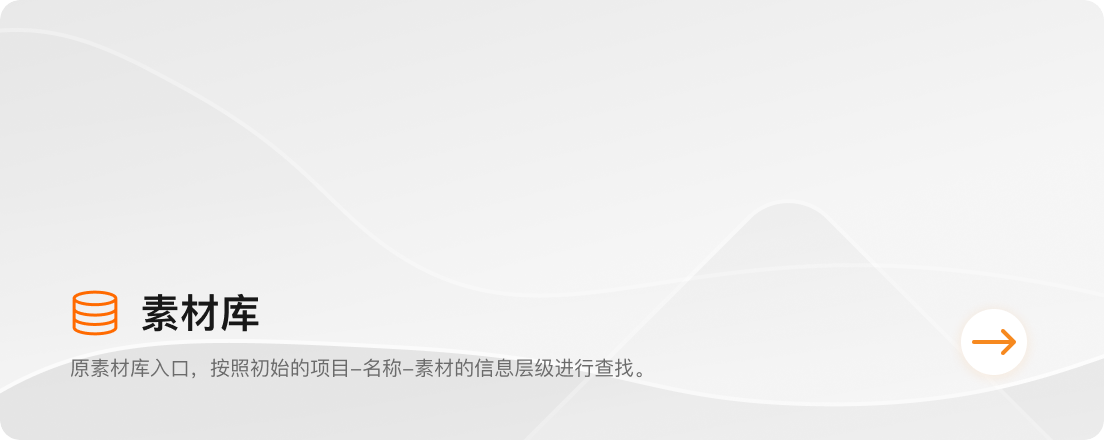
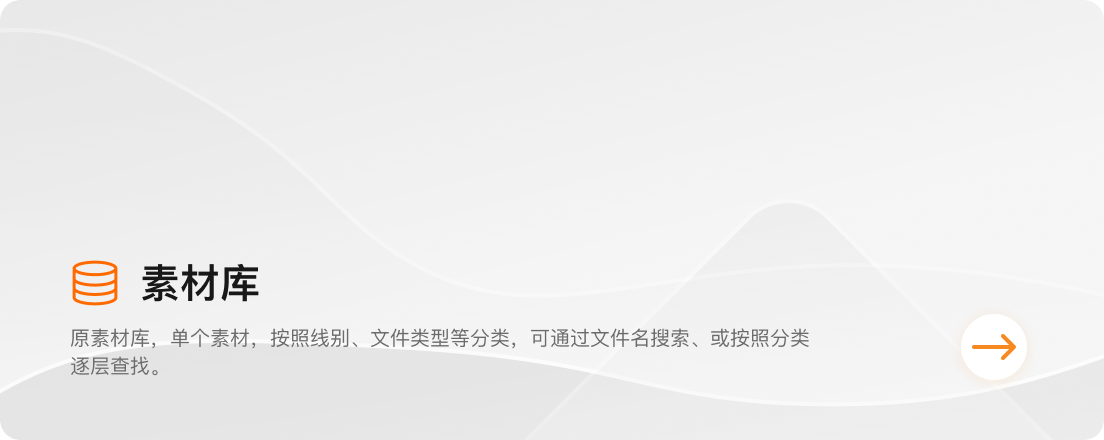
feat:优化前端样式

Changed region(s): [[0.0616, 0.5909, 0.7391, 0.8568], [0.8623, 0.7386, 0.9239, 0.8273]]

diff --git a/websrc/src/views/home/index.vue b/websrc/src/views/home/index.vue
@@ -4,24 +4,23 @@
             <el-col :span="24" class="header">
                 <el-col :span="9">
                     <div class="main_content">
-                        <img :src="joyeaLogo" @click="jumpToBuild('')"
-                             style="height: 30px;vertical-align: middle;"/>
-                        <span class="logo" style="font-size: 20px;margin-left: 10px;vertical-align:bottom"><b>仅一素材库</b></span>
+                        <img class="logo" :src="joyeaLogo" @click="jumpToBuild('')"/>
+                        <span class="logo_text"><b>仅一素材库</b></span>
                     </div>
                 </el-col>
 
                 <el-col :span="15" class="userinfo">
-                    <el-button size="mini"  @click="jumpToBuild('')" round
+                    <el-button size="mini" @click="jumpToBuild('')" round
                                icon="iconfont el-icon-icon_home_20_20px" class="interval"
                                :class="{'is-active':currentPath.startsWith('/build')}"> 首页
                     </el-button>
-                    <el-button size="mini"  @click="jumpToBuild('SELF')" round
-                               v-if="currentPath.startsWith('/build')"
+                    <el-button size="mini" @click="jumpToBuild('SELF')" round
+                               v-if="currentPath.startsWith('/build') && directoryType.trim() !== ''"
                                icon="iconfont el-icon-icon_xifenshichang_20_20px" class="interval"
                                :class="{'is-active':currentPath.startsWith('/build')}"> 细分市场
                     </el-button>
-                    <el-button size="mini"  @click="jumpToBuild('LENOVO')" round
-                               v-if="currentPath.startsWith('/build')"
+                    <el-button size="mini" @click="jumpToBuild('LENOVO')" round
+                               v-if="currentPath.startsWith('/build') && directoryType.trim() !== ''"
                                icon="iconfont el-icon-icon_sucaiku_20_20px" class="interval"
                                :class="{'is-active':currentPath.startsWith('/build')}"> 素材库
                     </el-button>
@@ -29,7 +28,8 @@
                                :class="{'is-active':currentPath.startsWith('/manage/list')}"
                                style="">我的清单
                     </el-button>
-                    <el-button size="mini" icon="iconfont el-icon-icon_sucaishangchuan_20_20px" @click="jumpToUpload" round
+                    <el-button size="mini" icon="iconfont el-icon-icon_sucaishangchuan_20_20px" @click="jumpToUpload"
+                               round
                                :class="{'is-active':currentPath.startsWith('/upload/index')}"
                                style="margin-right: 10px">素材上传
                     </el-button>
@@ -67,17 +67,23 @@
                             </el-table-column>
                         </el-table>
                         <el-button slot="reference" size="mini" :type="visible?'danger':''" round
-                                   :icon="visible ? 'el-icon-loading' :'iconfont el-icon-icon_xiazailiebiao_20_20px' ">下载列表</el-button>
+                                   :icon="visible ? 'el-icon-loading' :'iconfont el-icon-icon_xiazailiebiao_20_20px' ">
+                            下载列表
+                        </el-button>
                     </el-popover>
 
-                    <el-dropdown trigger="hover">
+                    <el-dropdown trigger="click">
                         <div>
-                            <el-button size="mini" type="warning" style="background-color: #eb7708 " circle icon="iconfont el-icon-icon_me_20_20px"></el-button>
-                            <span class="el-dropdown-link userinfo-inner">{{ userInfo.name }}</span>
+                            <el-button size="mini" type="warning" style="background-color: #eb7708 " circle
+                                       icon="iconfont el-icon-icon_me_20_20px"></el-button>
+                            <span class="el-dropdown-link userinfo-inner">{{ userInfo.name }}<i
+                                class="el-icon-arrow-down el-icon--right"/></span>
                         </div>
                         <el-dropdown-menu slot="dropdown">
-                            <el-dropdown-item v-if="userInfo.isAdmin" @click.native="jumpToUploadManage">素材审核</el-dropdown-item>
-                            <el-dropdown-item v-if="userInfo.isAdmin" @click.native="jumpToTranscode">转码素材管理</el-dropdown-item>
+                            <el-dropdown-item v-if="userInfo.isAdmin" @click.native="jumpToUploadManage">素材审核
+                            </el-dropdown-item>
+                            <el-dropdown-item v-if="userInfo.isAdmin" @click.native="jumpToTranscode">转码素材管理
+                            </el-dropdown-item>
                             <el-dropdown-item @click.native="logout">注销登陆</el-dropdown-item>
                         </el-dropdown-menu>
                     </el-dropdown>
@@ -113,6 +119,7 @@ export default {
             currentPath: "",
             downloadTask: [],
             joyeaLogo: require("@assets/joyea.png"),
+            directoryType:""
         }
     },
     computed: {
@@ -131,7 +138,7 @@ export default {
             if (!this.currentPath.startsWith('/build')) {
                 this.$router.push("/build?_=" + (new Date()).getTime());
             } else {
-                this.$EventBus.$emit("switchSpace",path);
+                this.$EventBus.$emit("switchSpace", path);
             }
         },
         jumpToUpload() {
@@ -243,6 +250,9 @@ export default {
         document.oncontextmenu = function (event) {
             event.preventDefault();
         };
+        this.$EventBus.$on("directoryTypeChanged",directoryType => {
+            this.directoryType = directoryType;
+        })
     }
 }
 </script>
@@ -258,9 +268,30 @@ export default {
 
     .header {
         height: 60px;
-        line-height: 60px;
         background: #E9E9E9;
-        color: #000;
+        padding-top: 20px;
+
+        .main_content {
+
+            padding-left: 150px;
+
+            .logo {
+                cursor: pointer;
+                vertical-align: middle;
+                height: 30px;
+            }
+
+            .logo_text {
+                -webkit-user-select: none;
+                -moz-user-select: none;
+                -ms-user-select: none;
+                user-select: none;
+                margin-left: 10px;
+
+                font-size: 20px;
+                vertical-align: bottom;
+            }
+        }
 
         .userinfo {
             text-align: right;
@@ -270,6 +301,7 @@ export default {
             .userinfo-inner {
                 cursor: pointer;
                 color: #000;
+                padding-left: 10px;
 
                 img {
                     width: 40px;
@@ -279,31 +311,6 @@ export default {
                     float: right;
                 }
             }
-        }
-
-        .main_content {
-            margin: 0 150px;
-        }
-
-        .logo {
-            height: 60px;
-            -webkit-user-select: none;
-            -moz-user-select: none;
-            -ms-user-select: none;
-            user-select: none;
-
-            .txt {
-                color: #fff;
-            }
-        }
-
-
-        .tools {
-            padding: 0px 23px;
-            width: 14px;
-            height: 60px;
-            line-height: 60px;
-            cursor: pointer;
         }
     }
 

diff --git a/websrc/src/views/home/build/index.vue b/websrc/src/views/home/build/index.vue
@@ -1,16 +1,15 @@
 <template>
-
     <section id="build">
         <!--工具条-->
         <div style="padding: 10px 150px 0 150px;background: #E9E9E9;">
             <el-input v-model="search.key" class="my-input" placeholder="请输入关键字"
                       @keyup.enter.native="handleSearch">
                 <el-button slot="append" class="search-button"
-                           icon="el-icon-search" style="margin: 0px -20px !important;"
+                           icon="el-icon-search" style=""
                            v-on:click="handleSearch"/>
             </el-input>
             <div style="padding:15px 0;color: #808080">热门搜索:
-                <span v-for="key in topSearchKey" style="padding: 5px"
+                <span v-for="key in topSearchKey" style="padding: 15px;cursor: pointer"
                       @click="handleClickTopSearchKey(key)"><u><b>{{ key }}</b></u></span>
             </div>
         </div>
@@ -44,23 +43,16 @@
             <el-col :span="18" class="bg-purple">
                 <!--文件路径显示-->
                 <el-row class="adminContentHead">
-                    <el-col :span="3">
-                        <el-select v-model="directoryType" placeholder="请选择" size="small"
-                                   @change="handleDirectoryTypeSelected">
-                            <el-option key="SELF" label="细分市场" value="SELF"/>
-                            <el-option key="LENOVO" label="素材库" value="LENOVO"/>
-                        </el-select>
-                    </el-col>
                     <el-col :span="15">
                                 <span style=" color:#000000;font-size: 15px;cursor:pointer;"
-                                      @click="handleGoRootPath">首页</span>
+                                      @click="handleGoRootPath">{{ directoryType === 'SELF' ? '细分市场' : '素材库' }}</span>
                         <span v-for="(item,index) in dir.currentPath" v-if="item !== '营销素材展示'"
                               style="display: inline">/
                             <span style=" color:#000000;font-size: 15px;cursor:pointer;"
                                   @click="handleClickDirPath(item,index)">{{ item }}</span>
                         </span>
                     </el-col>
-                    <el-col :span="6" style="text-align: right">
+                    <el-col :span="9" style="text-align: right">
                         <span>
                             共{{ dir.tableData.length }}个资源
                         </span>
@@ -502,6 +494,11 @@ export default {
         ...mapGetters({
             'userInfo': 'userInfo/userInfo'
         })
+    },
+    watch: {
+        directoryType() {
+            this.$EventBus.$emit("directoryTypeChanged", this.directoryType);
+        }
     },
     methods: {
         hasBtnShowPermission(fileItem, mode) {
@@ -1164,7 +1161,7 @@ export default {
         },
         handleListLenovoDir(path) {
             this.dir.loadingDir = true;
-            if(this.directoryType.length === 0) {
+            if (this.directoryType.length === 0) {
                 return;
             }
             getFileMetadata(this.directoryType, path.replace("+", "%2B"), "").then(response => {
@@ -1352,11 +1349,11 @@ export default {
         let _this = this;
         this.$EventBus.$on('switchSpace', function (data) {
             let switchFlag = _this.directoryType !== data;
-            if(!data || data.length <= 0) {
+            if (!data || data.length <= 0) {
                 switchFlag = false;
             }
             _this.directoryType = data;
-            if(switchFlag) {
+            if (switchFlag) {
                 _this.handleGoRootPath();
             }
         });

diff --git a/websrc/vue.config.js b/websrc/vue.config.js
@@ -10,13 +10,13 @@ module.exports = {
     devServer: {
         proxy: {
             'apiv2/': {
-                target: 'http://192.168.1.35:8081',
-                //target: 'http://sck.joyea.cn:8000',
+                //target: 'http://192.168.1.35:8081',
+                target: 'http://sck.joyea.cn:8000',
                 changeOrigin: true
             },
             '/': {
-                //target: 'http://sck.joyea.cn:8000',
-                target: 'http://127.0.0.1:8000',
+                target: 'http://sck.joyea.cn:8000',
+                //target: 'http://127.0.0.1:8000',
                 changeOrigin: true
             }
         }

diff --git a/websrc/src/style/vars.scss b/websrc/src/style/vars.scss
@@ -1,5 +1,9 @@
 $color-primary: #20a0ff; //#18c79c
 
+::-webkit-scrollbar{
+  display:none;
+}
+
 .el-card__header {
   background: #818181;
 }
@@ -17,4 +21,10 @@ $color-primary: #20a0ff; //#18c79c
 .search-button {
   background: #eb7708 !important;
   color: #ffffff !important;
+}
+
+.my-input{
+  .el-input__inner{
+    border-right: none;
+  }
 }
